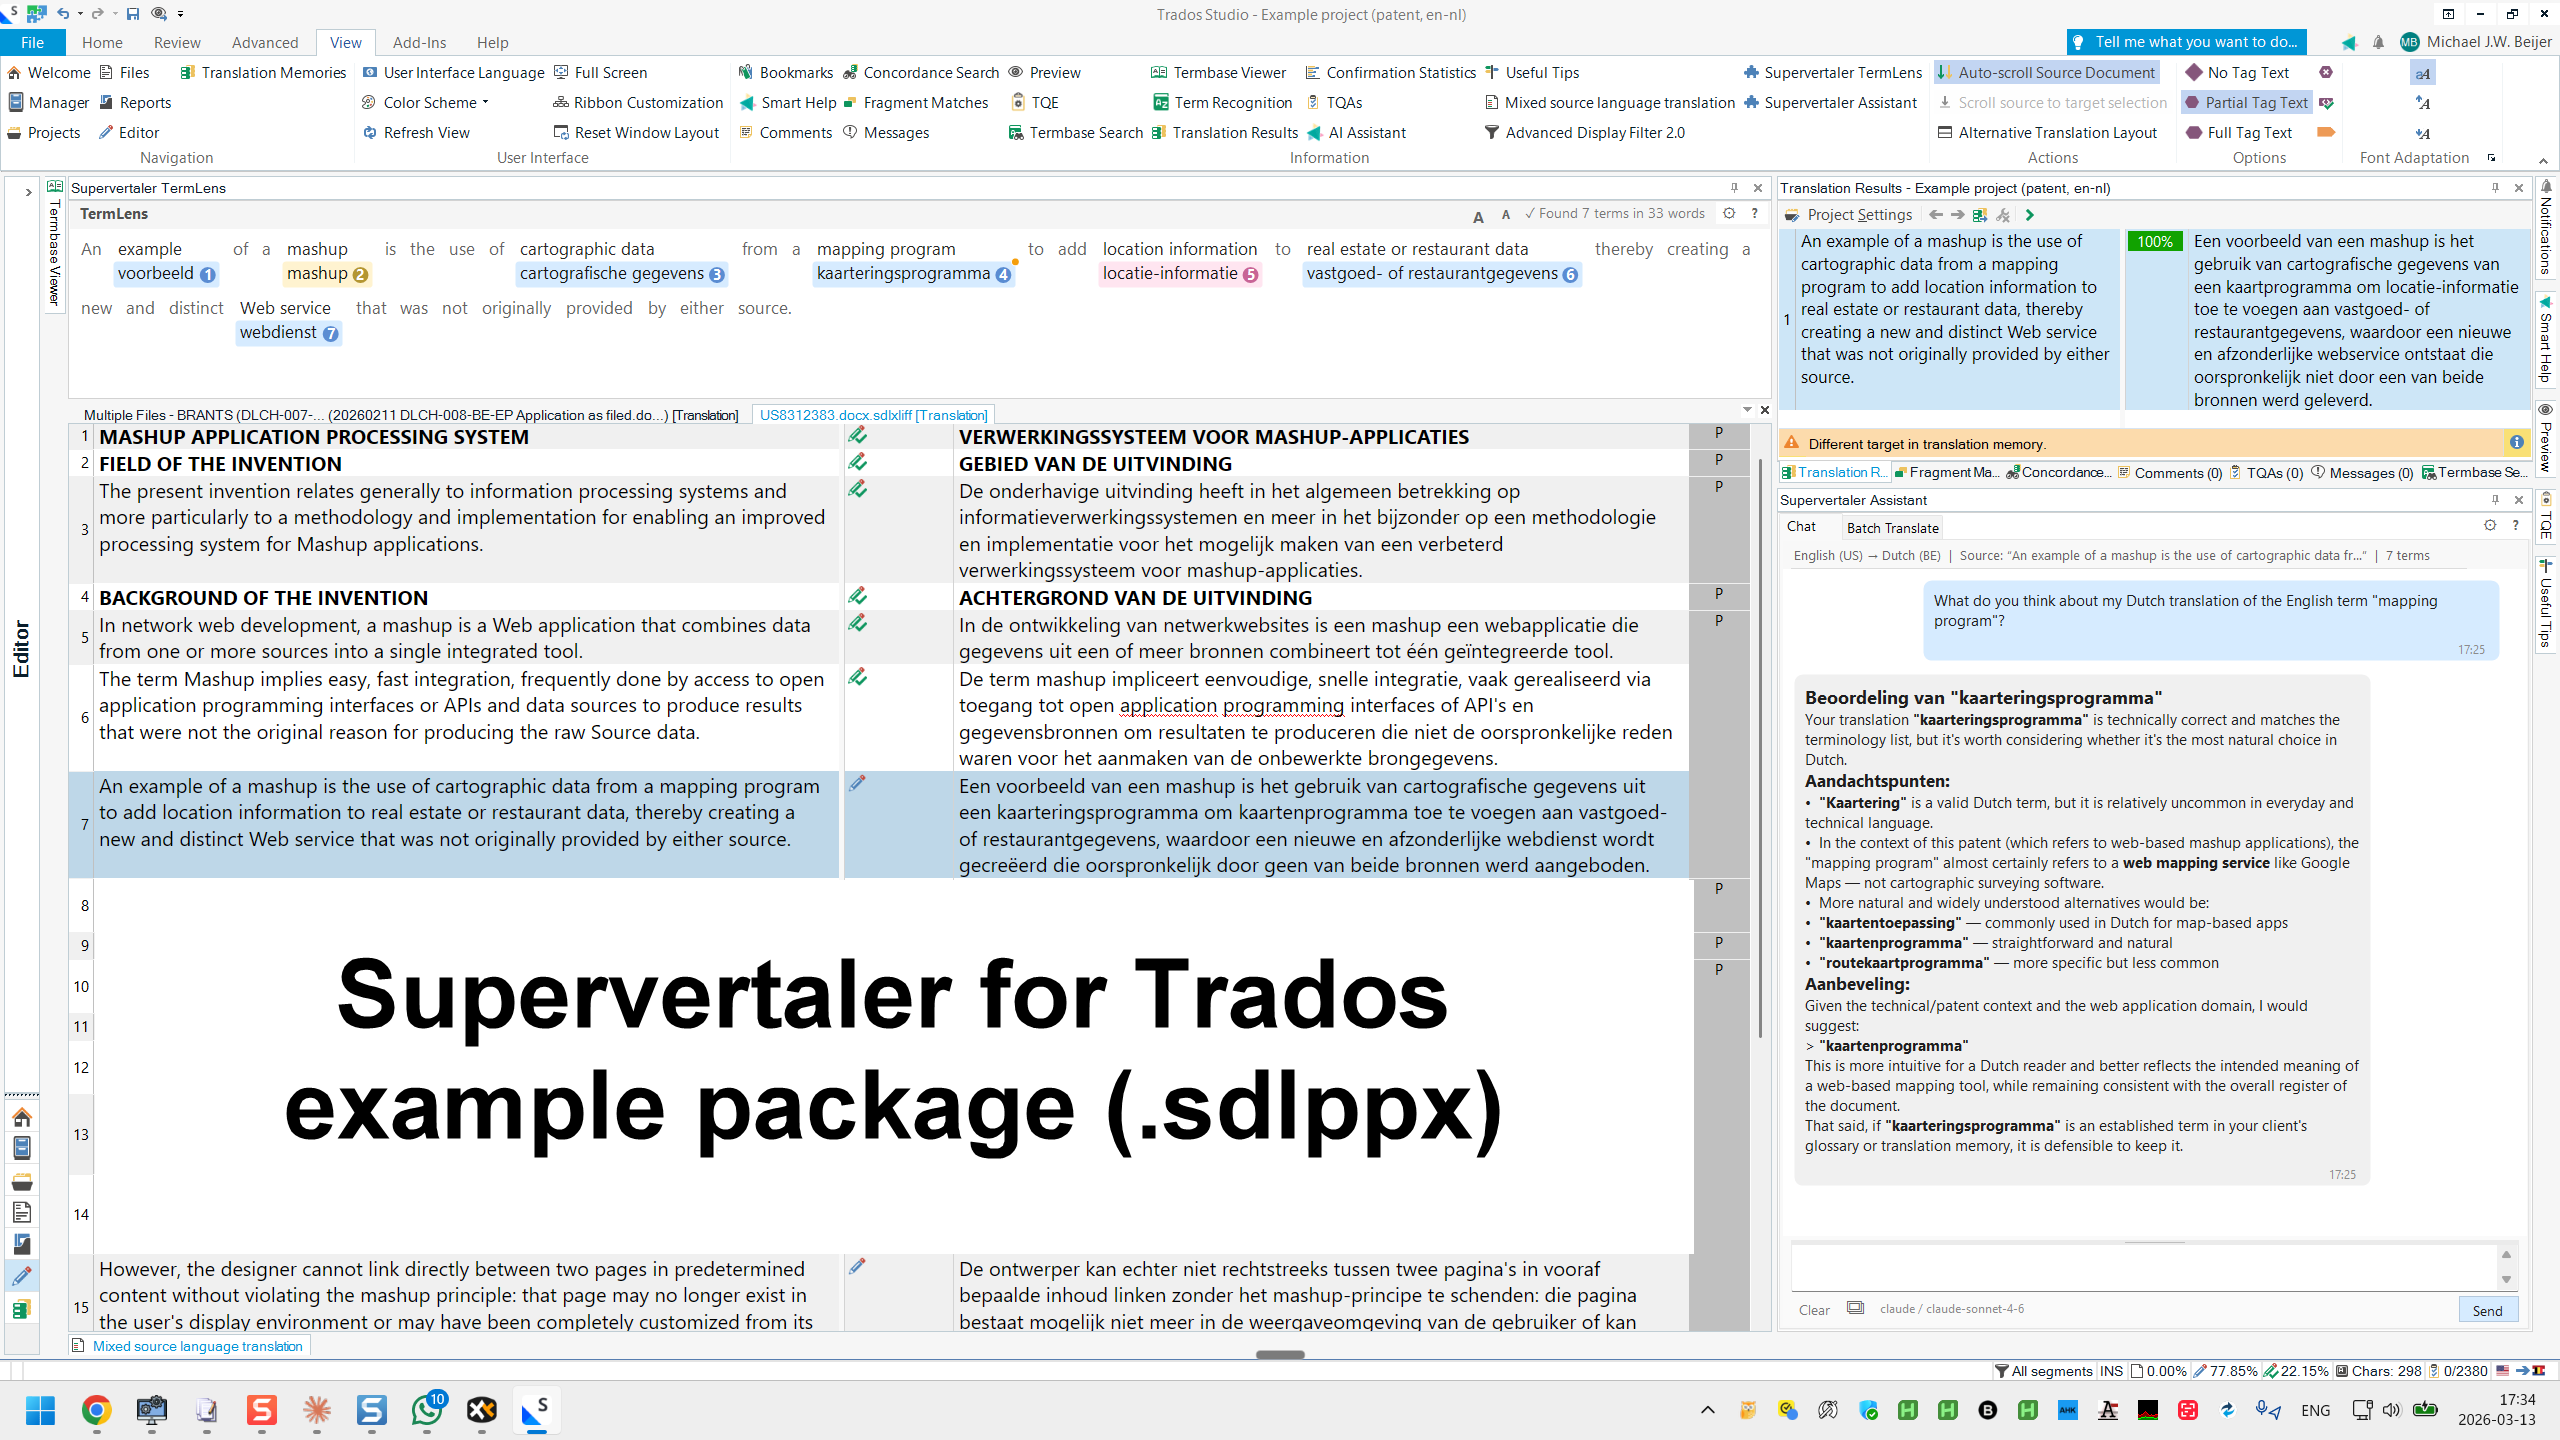
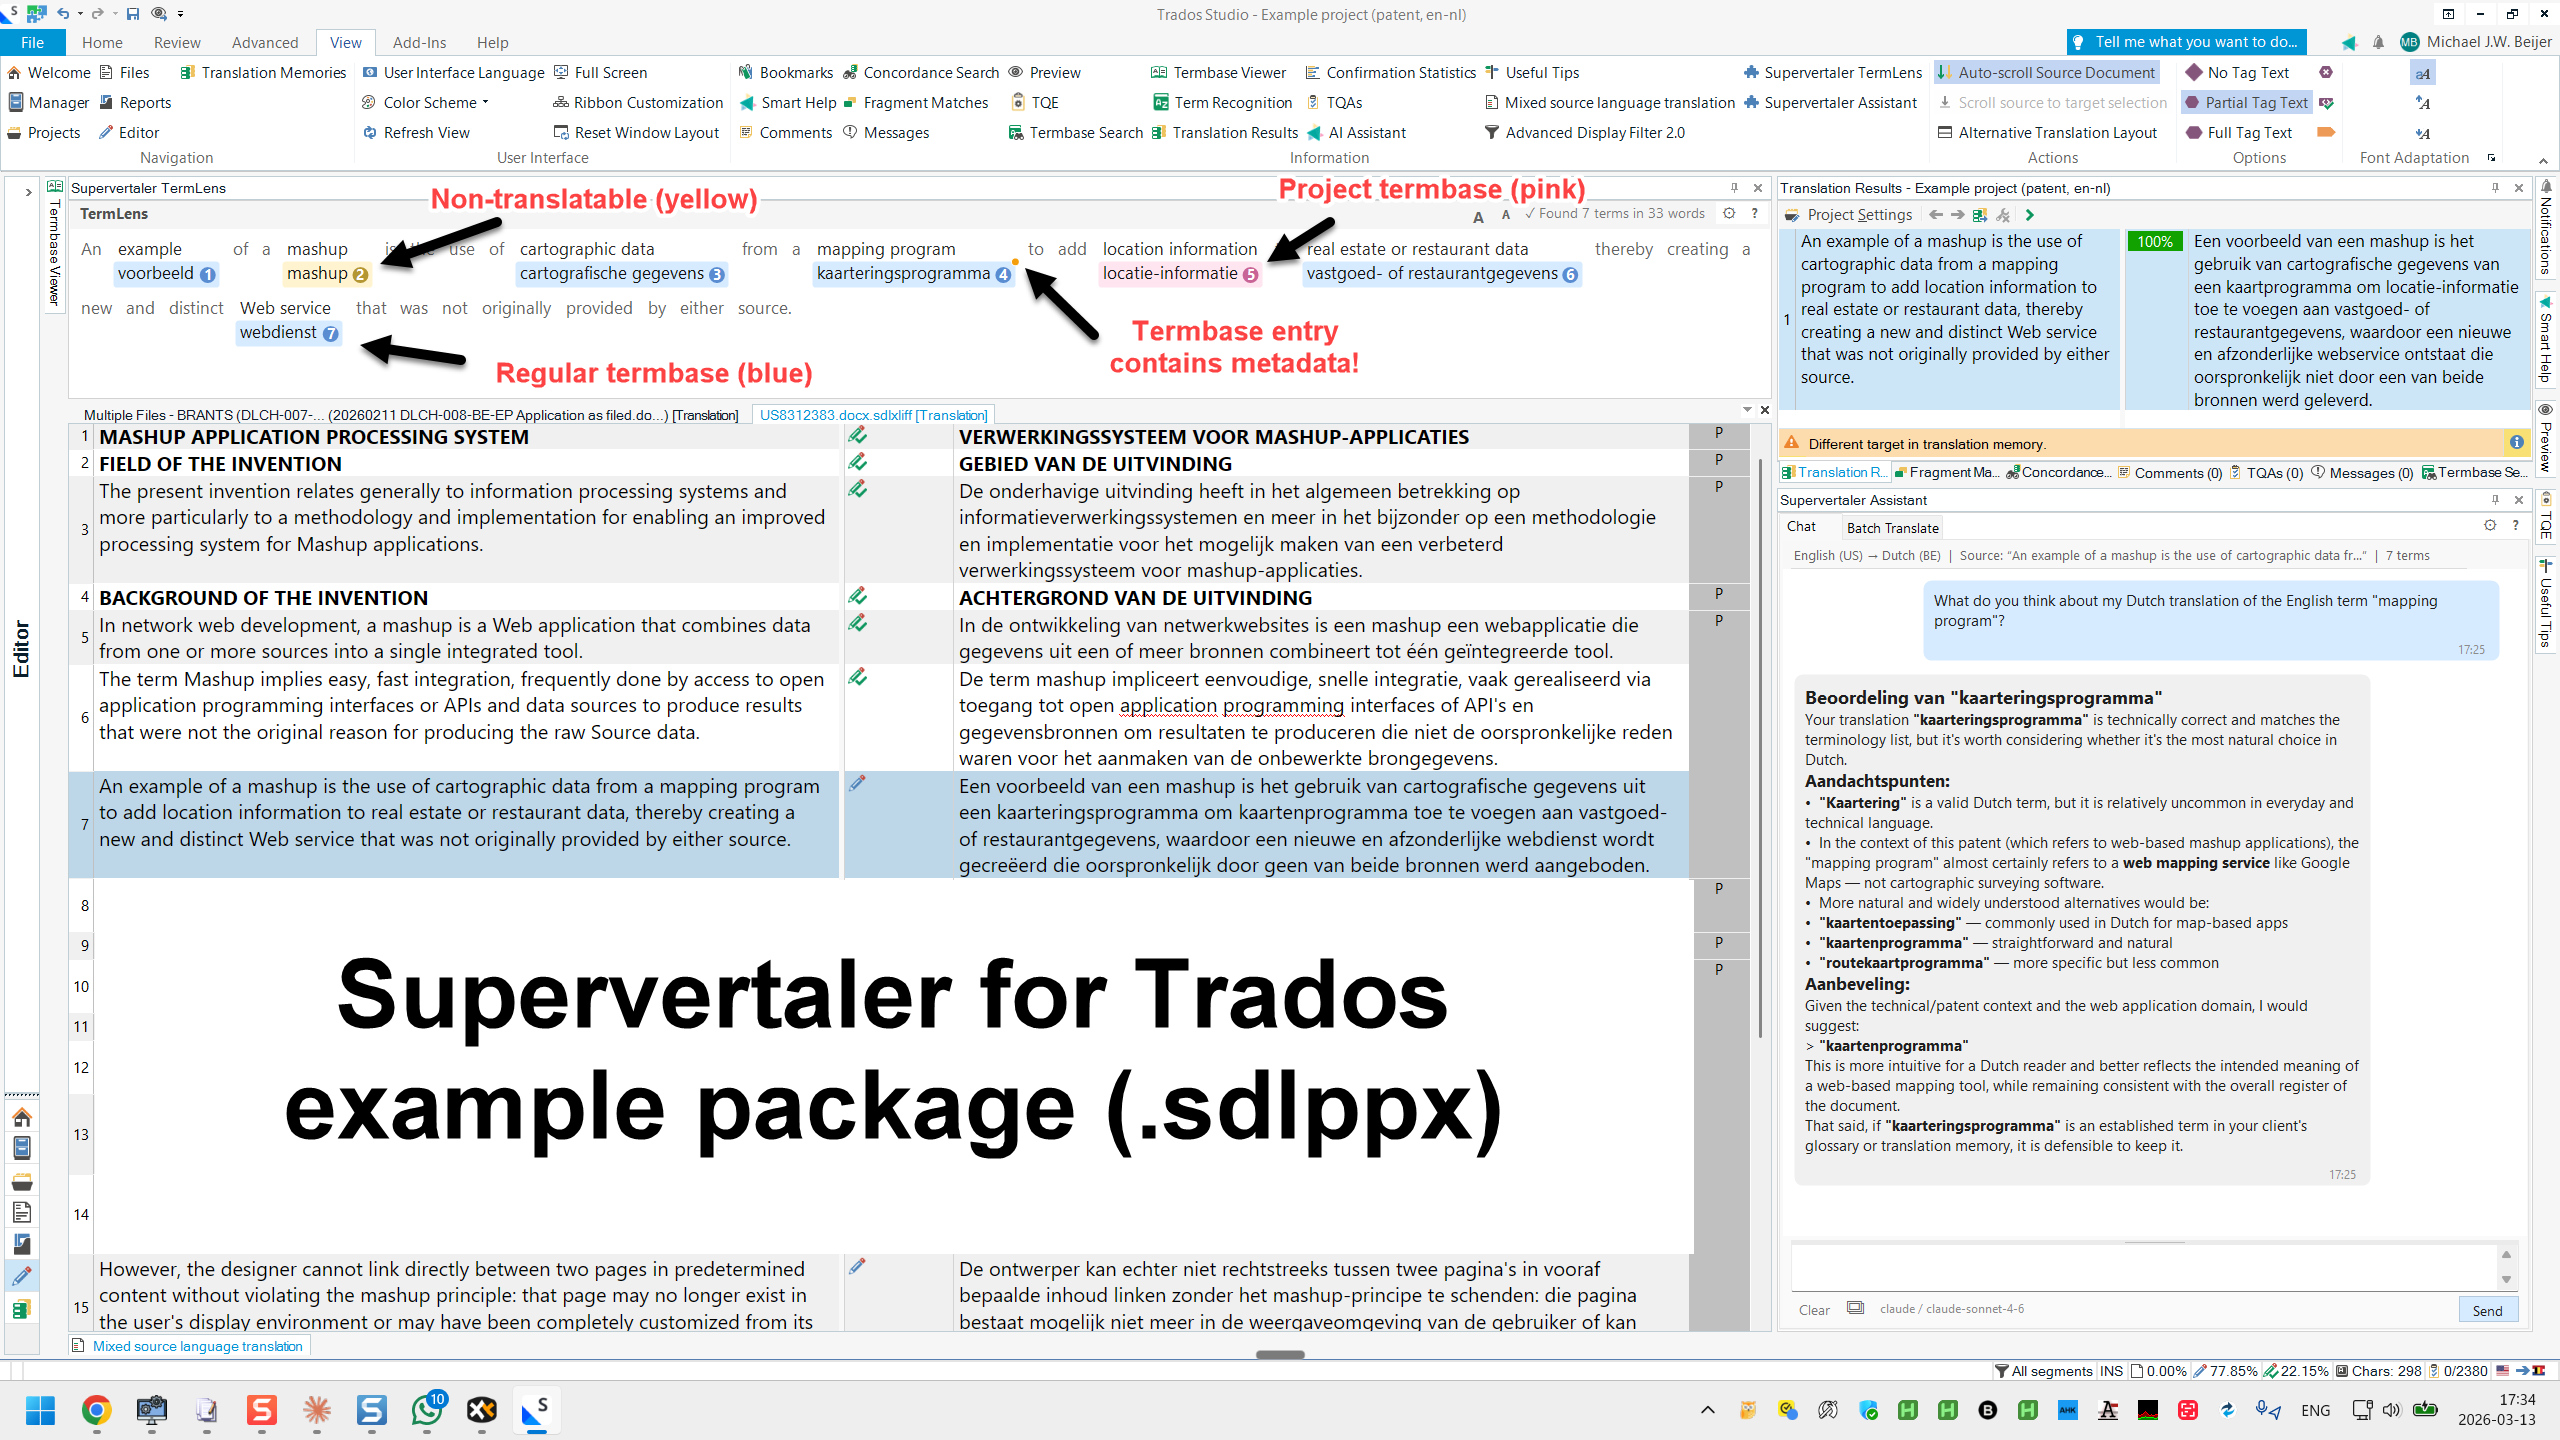
Update example project screenshot and add settings screenshot
- Replaced main screenshot with updated version
- Added example-settings.png showing recommended TermLens config
- Updated example-project.md to show settings screenshot after step 4
- Updated release zip with new screenshots

diff --git a/docs/example-project.md b/docs/example-project.md
@@ -46,6 +46,10 @@ This is the only manual step. The Supervertaler termbase (`.db` file) is not par
 Don't click "New" — the example termbase already exists and is pre-populated with patent terminology. You just need to tell Supervertaler where to find it.
 {% endhint %}
 
+After attaching the termbase, your TermLens settings should look something like this:
+
+<figure><img src=".gitbook/assets/example-settings.png" alt="TermLens settings showing the example termbases configured with Read, Write, and Project toggles."><figcaption><p>Recommended TermLens settings for the example project.</p></figcaption></figure>
+
 ### 5. Navigate to Segment 7
 
 Open a file in the Editor view and go to **segment 7**. This is a good segment to start with because it has terminology matches in the Supervertaler termbase. You should see:
